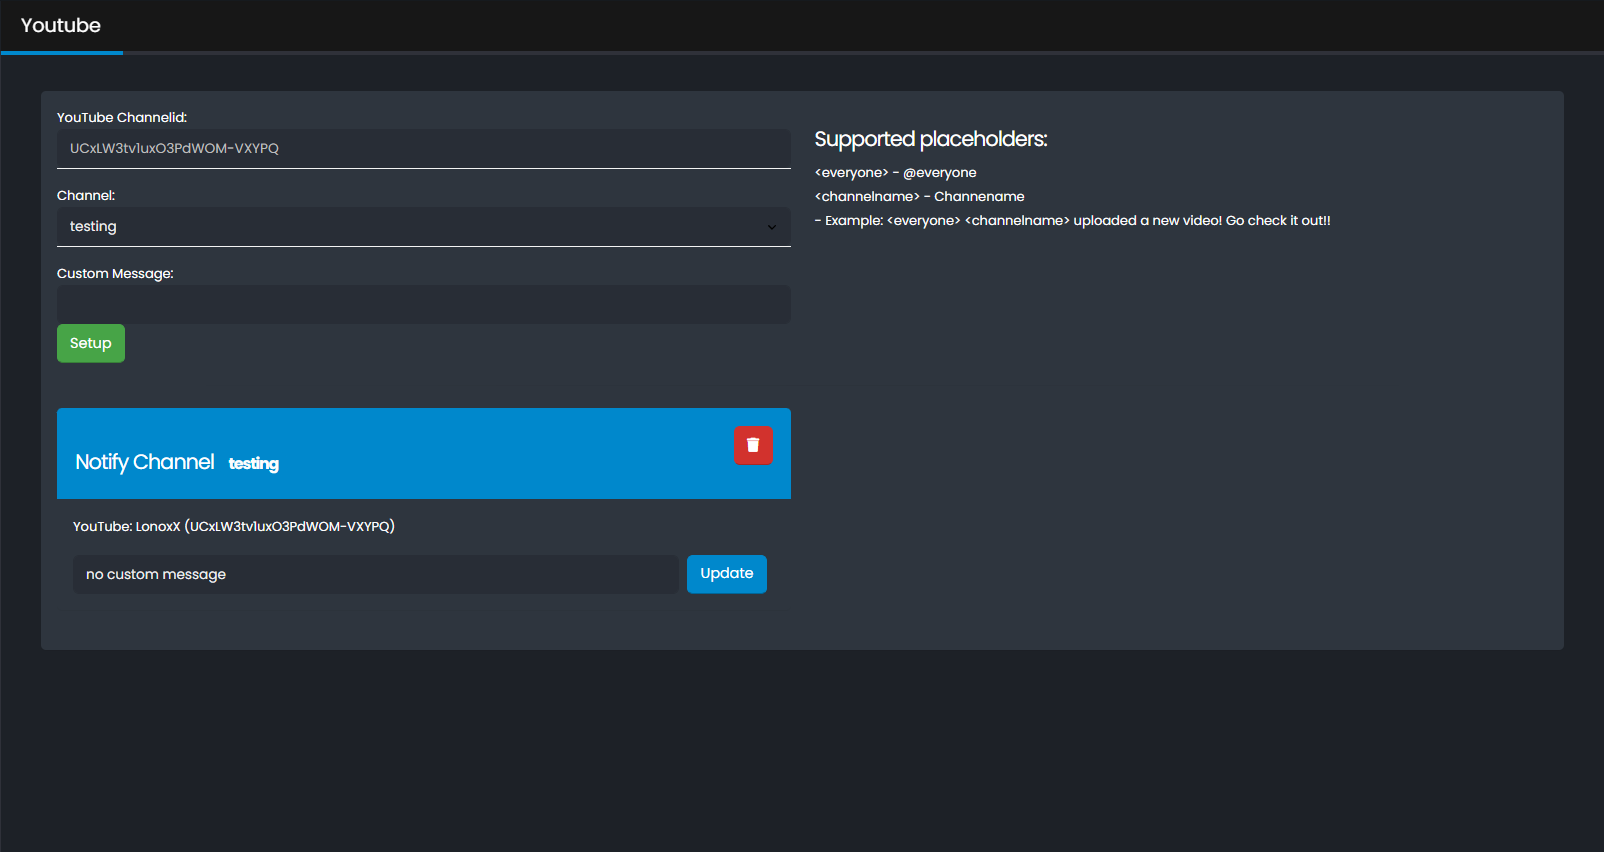
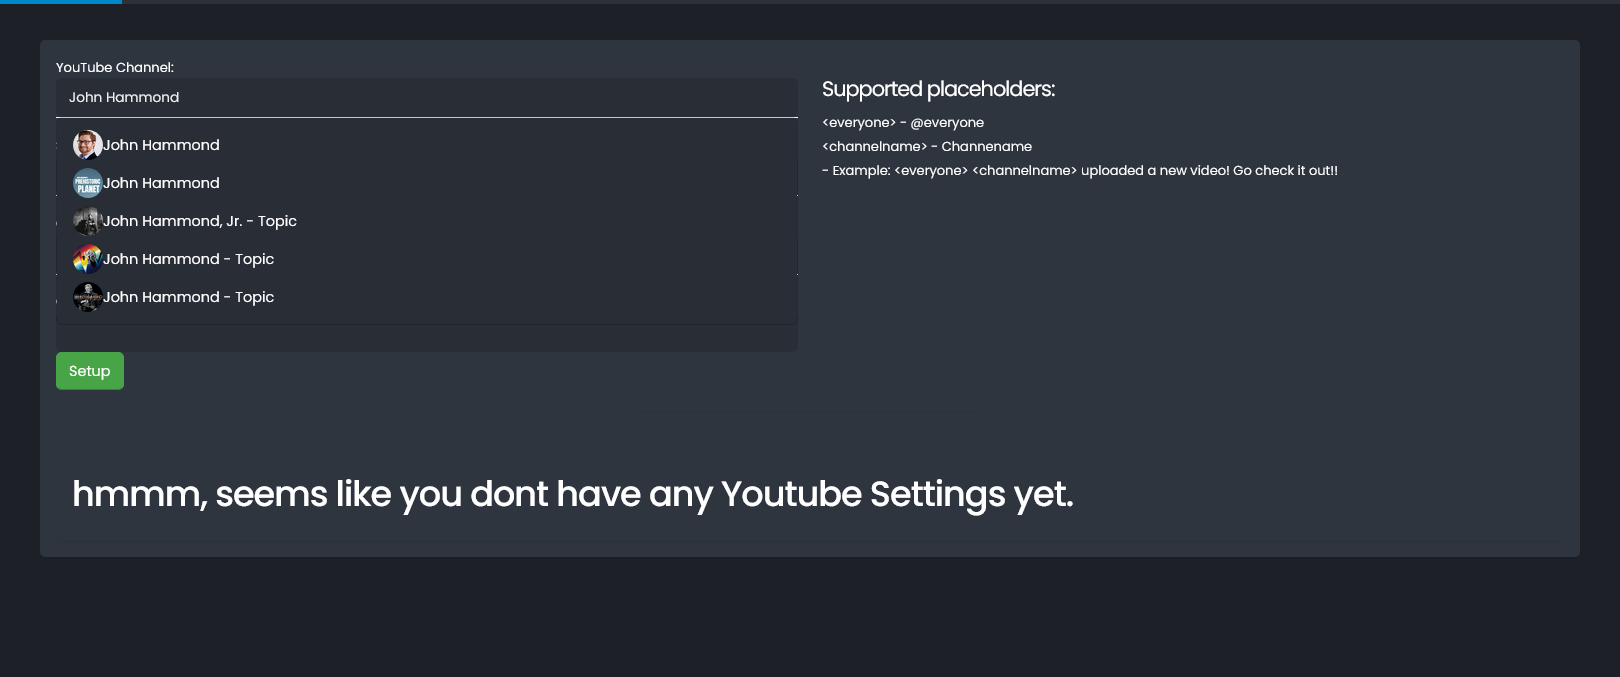
update: enhance YouTube notifications documentation with channel selection and Discord commands

diff --git a/docs/sites/youtube.md b/docs/sites/youtube.md
@@ -1,27 +1,33 @@
 ## YouTube Notifications
 
-To receive notifications from a YouTube channel, simply go to the YouTube channel you want to receive notifications from and copy the ChannelID.<br>
+To receive notifications from a YouTube channel, simply enter the channel name in the provided field. The system will search for matches and display a list of channels. Select the appropriate channel from the list. After that, you can choose the Discord channel where you want to receive the notifications and specify a custom message for the notifications.
 
 ![youtube_0](../assets/images/youtube_0.png)
 
-The Default notification message is: <br> `<everyone> <channelname> uploaded a new video! Go check it out!!`<br>
+The default notification message is: <br> `<everyone> <channelname> uploaded a new video! Go check it out!!`<br>
 You can customize the message by using the following placeholders:<br>
-- `<everyone>` - Mentions everyone
-- `<channelname>` - The name of the channel
+- `<everyone>` - Mentions everyone in the Discord channel
+- `<channelname>` - The name of the YouTube channel
 
+## Discord Commands
 
+Use the following Discord commands to manage your YouTube notifications:
 
-### How to get the ChannelID
-![ChannelID](../assets/images/1oMmSWZDPz.png)
-
+- `/notification add` - Select the notification type and add a new notification.
+- `/notification list type:YouTube` - Get a list of all YouTube notifications.
+- `/notification remove removechannel:<channelname>` - Remove a notification for a specific channel.
 
 ### Preview
-![Preview](../assets/images/s1ITuqYJE3.png)
 
+Below are some preview images to help you understand the process:
 
+![notification_discord_select](../assets/images/notification_discord_Select.png)
+![notification_discord_youtube_name_enter](../assets/images/notification_discord_youtube_name_enter.png)
+![notification_discord_youtube_channel_select](../assets/images/notification_discord_youtube_channel_select.png)
+![notification_discord_youtube_channel_info](../assets/images/notification_discord_youtube_channel_info.png)
+![notification_discord_discord_channel_select](../assets/images/notification_discord_youtube_Discordchannel_select.png)
+![notification_discord_youtube_end_info](../assets/images/notification_discord_youtube_End_info.png)
+![notification_discord_youtube_final](../assets/images/notification_discord_youtube_final.png)
+![notification_discord_youtube_list](../assets/images/notification_discord_youtube_list.png)
 
-## Discord Command´s
-
-`/notification add channel:#testing channelname:<channelname> type:YouTube`<br> (optional add: `custommessage:<channelname> uploaded a new video! Go check it out!! `) to set a custom message.<br><br>
-`/notification list type:YouTube` - get a list of all notifications.<br>
-`/notification remove removechannel:<channelname>` - to remove a notification.<br>
+![preview](../assets/images/s1ITuqYJE3.png)
